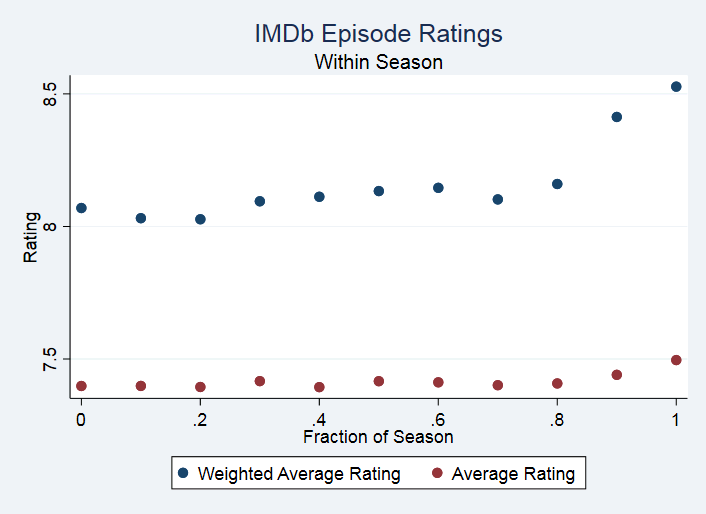
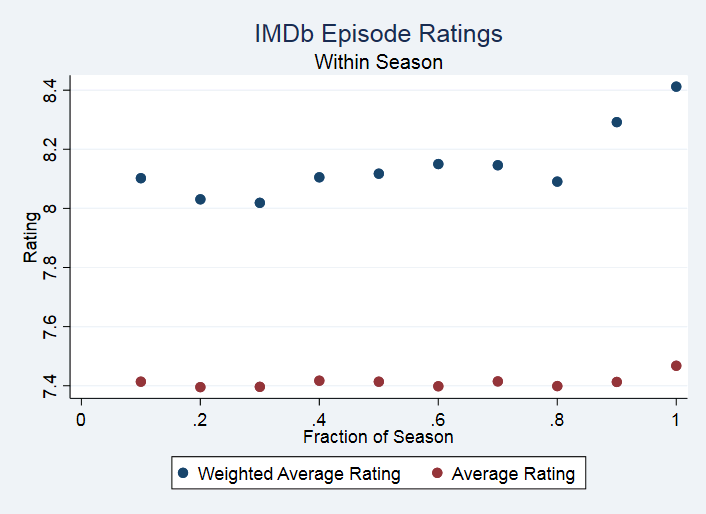
IMDb post

diff --git a/_posts/2019-05-24-IMDbRatings.md b/_posts/2019-05-24-IMDbRatings.md
@@ -1,7 +1,21 @@
 ---
 layout: post
-title: Despite What You May Think After Watching the Game of Thrones Finale, Most Shows Get Better Over Time
+title: Unlike Game of Thrones, Most TV Shows Get Better Over Time
 categories: Opinion
 ---
 
+TV episode ratings remain roughly constant until the last 20% of the season, when they climb upwards.
+
+The graphs below are created with data from IMDb ([^1]). I normalize the duration of each TV season to be 1, so that the 5th episode of a 10 episode season and the 7th episode of a 14 episode season are both assigned to a value of 1/2. I then compute the average rating given to episodes within 10 buckets.
+
 ![png]({{ site.baseurl }}/images/IMDb Episode Ratings.png)
+
+The first bucket contains all episodes in the first tenth of their season, the second all episodes in the second tenth, and so on. The red series shows the simple average of all episode ratings in each bucket. The blue series shows the average weighted by the number of votes. Both tick upwards at the end of a season, but the upturn is much more pronounced in the blue series. This suggests that highly-rated episodes tend to get more votes.
+
+The life of a show is more varied.
+
+![png]({{ site.baseurl }}/images/IMDb Season Ratings.png)
+
+
+
+[^1]: Retrieved from https://datasets.imdbws.com/ on 19 May 2019.
